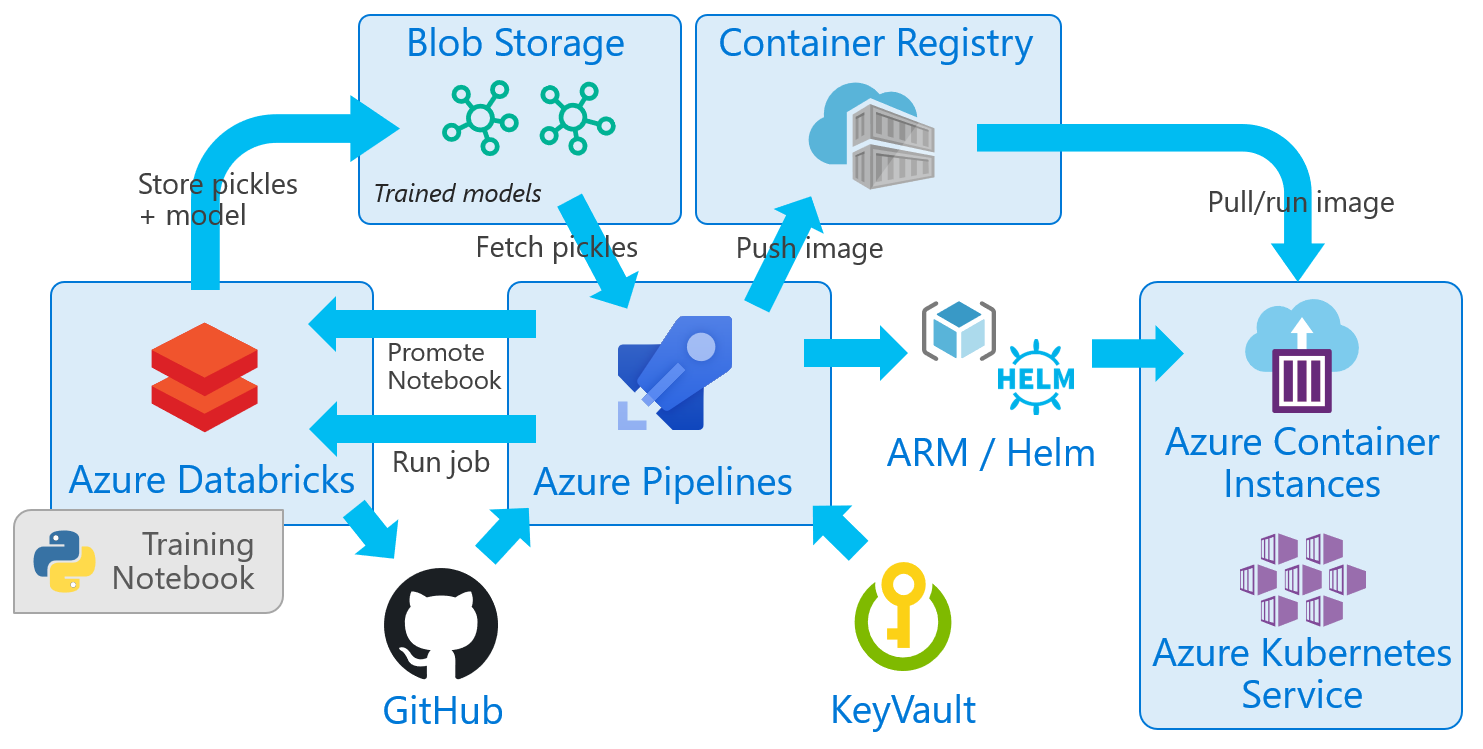
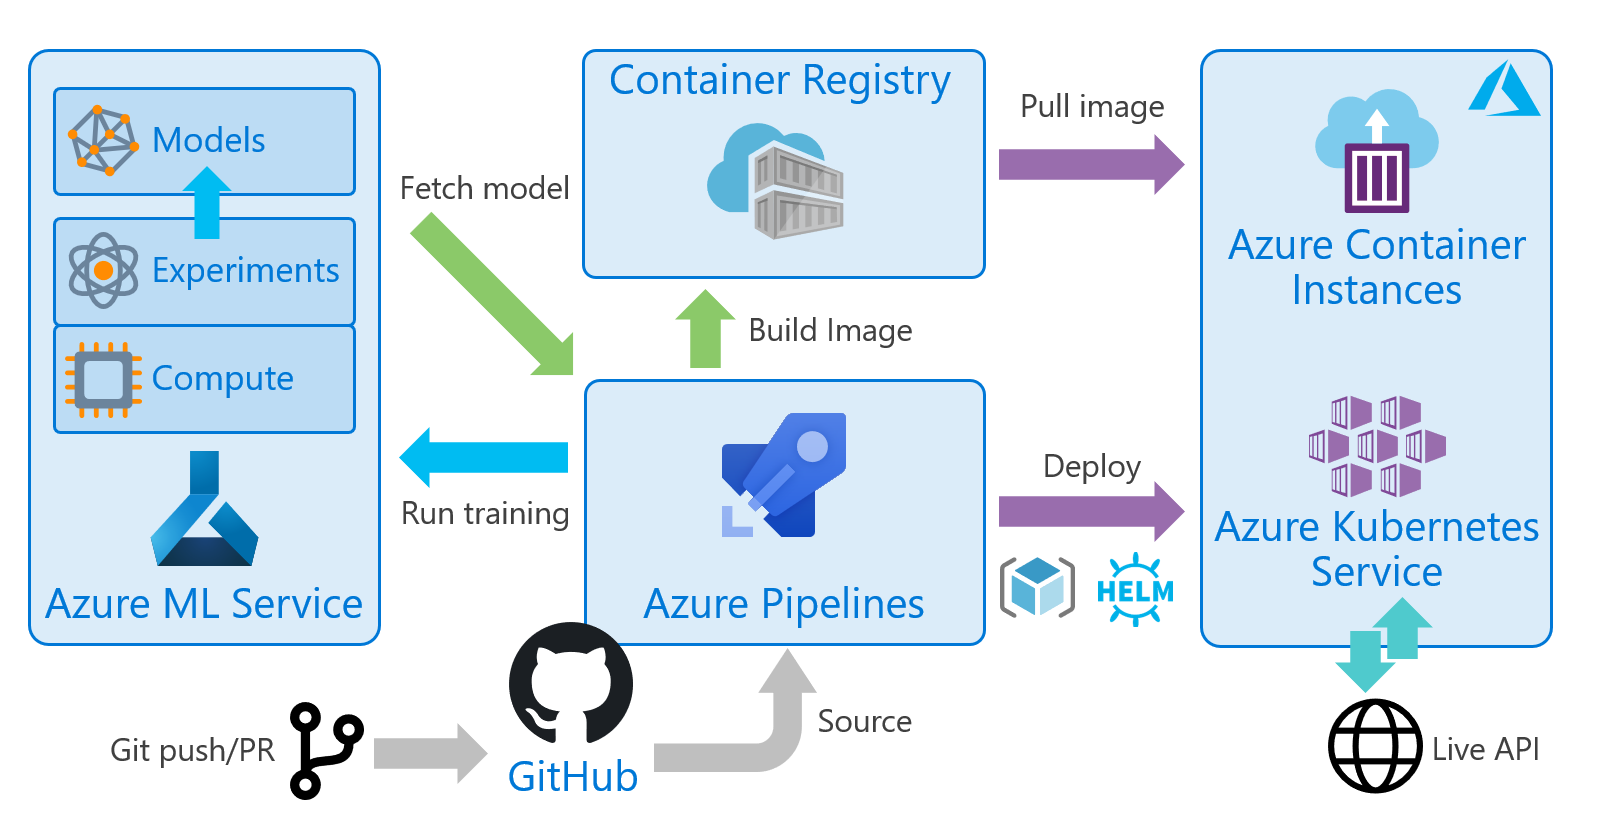
Trying to update docs, long way to go

diff --git a/README.md b/README.md
@@ -27,20 +27,7 @@ This shows a high level view of the core functional aspects of the project
 ![High level project building blocks](docs/high-level.png){: .framed .padded}
 
 ## Model Registry
-The integration point between the training and the deployment as the API service app is the "model registry". The training process is expected to output pickled files (i.e. serialized objects) and upload them into *Azure Blob storage*. 
-
-Not only is the model pickled and stored, but two other files are output from the training process and also stored in the blob storage model registry
-
-- **model.pkl** - The main trained Scikit-learn model
-- **lookup.pkl** - Mapping parameters/strings to numbers (features) for passing into predict function. This is a dictionary of the encoded labels used in the training
-- **flags.pkl** - Maps output of prediction function to human readable strings or labels
-
-The naming convention used in the storage account is:
-```
-/{model-name}/{model-version}/{file}.pkl
-  ↑            ↑               ↑ 
- container    version-prefix   filename   
-```
+THIS NEEDS REWRITING NOW
 
 **💬 Why the extra files & complexity?**  
 It was a design goal of the project not to present a dumb wrapper around the scoring function i.e. `model.predict_proba(features)` where a raw array of feature numbers is the expected input to the API. The `lookup.pkl` file provides a means for the developer working on training the model, to pass the encoded labels to the app and from there a more human friendly API can be exposed. And `flags.pkl` is used correspondingly to providing meaningful names for the results/scores
@@ -55,18 +42,17 @@ As there are a significant number of components, interactions & products involve
 ## Repo Structure
 The project doesn't represent a single codebase, there are multiple sets of artifacts, configuration files and sourcecode held here. The top level folders are as follows:
 ```
+/aml         - Azure ML Service orchestration scripts (Python)
 /assets      - Art and stuff
 /azure       - Azure ARM templates
 /batclient   - Frontend web client of Batcomputer to demo the model API
 /data        - Source training data
-/databricks  - Configuration files and info for setting up DataBricks
 /docs        - Documentation & guides 
 /kubernetes  - Kubernetes configurations
  └ helm      - Helm charts to deploy the wrapper API into Kubernetes
 /model-api   - Source for Python model wrapper API 
-/notebooks   - Training Python notebooks, synced with DataBricks via git
-/devops      - Scripts, pipelines and docs relating to CI/CD
- └ pipelines - Azure DevOps Pipelines 
+/training    - Training Python notebooks
+/pipelines   - Azure DevOps pipelines 
 ```
 
 ## Working With This Project
@@ -84,7 +70,7 @@ The primary focus of this project is on the operationisation aspects of machine 
 
 Two ML use cases are provided; one for Batcomputer (based on the crime data described above) and one for the well known "would you survive the Titanic?" used in many ML training examples
 
-All the training was developed and tested in Azure DataBricks using Python Notebooks. Spark was not heavily leveraged so the Notebooks could be ported elsewhere without major changes
+The scripts for training can either be run locally, or run within Azure ML Service as a experiment
 
 **⚡ Important!**  
 The provided code has been written by someone learning ML and trying it for the first time. It was not developed by a data scientist or someone with a background in AI. It does not represent any sort of best practice or optimal way of training a ML model with Scikit/Python or analyzing the data. However it is functional, and the resulting models serves the purposes of this project adequately 
@@ -92,16 +78,14 @@ The provided code has been written by someone learning ML and trying it for the 
 If your main interest is in the ML and training side of things, I suggest you look elsewhere, there are thousands of excellent resources available on this topic
 
 ## Technology Stack
-- [Azure DataBricks](https://azure.microsoft.com/en-gb/services/databricks/)
+- [Azure DataBricks](https://docs.microsoft.com/en-gb/azure/machine-learning/service/)
 - [Python 3]((https://www.python.org/))
 - [Scikit-Learn](https://scikit-learn.org/stable/)
-- [PySpark](https://spark.apache.org/docs/2.2.1/api/python/pyspark.html)
+- [Pandas](https://pandas.pydata.org/)
 
 ## Full Documentation
 
-#### [📃 DataBricks Setup](/databricks)
-
-#### [📃 Python Notebooks](/notebooks)
+#### [📃 Python Training Scripts](/training)
 
 ---
 
@@ -122,7 +106,7 @@ The model API wrapper is a Python Flask app, designed to wrap the model with a R
 
 ## Azure DevOps Pipelines
 Azure Pipelines (part of Azure DevOps) is used to provide CI/CD automation. These carry out the Docker build of the model API image and also integrates with DataBricks for running the training jobs via a CI trigger
-#### [📃 DevOps Pipelines - Full Docs](/devops)
+#### [📃 DevOps Pipelines - Full Docs](/pipelines)
 
 ## Infrastructure as Code
 
